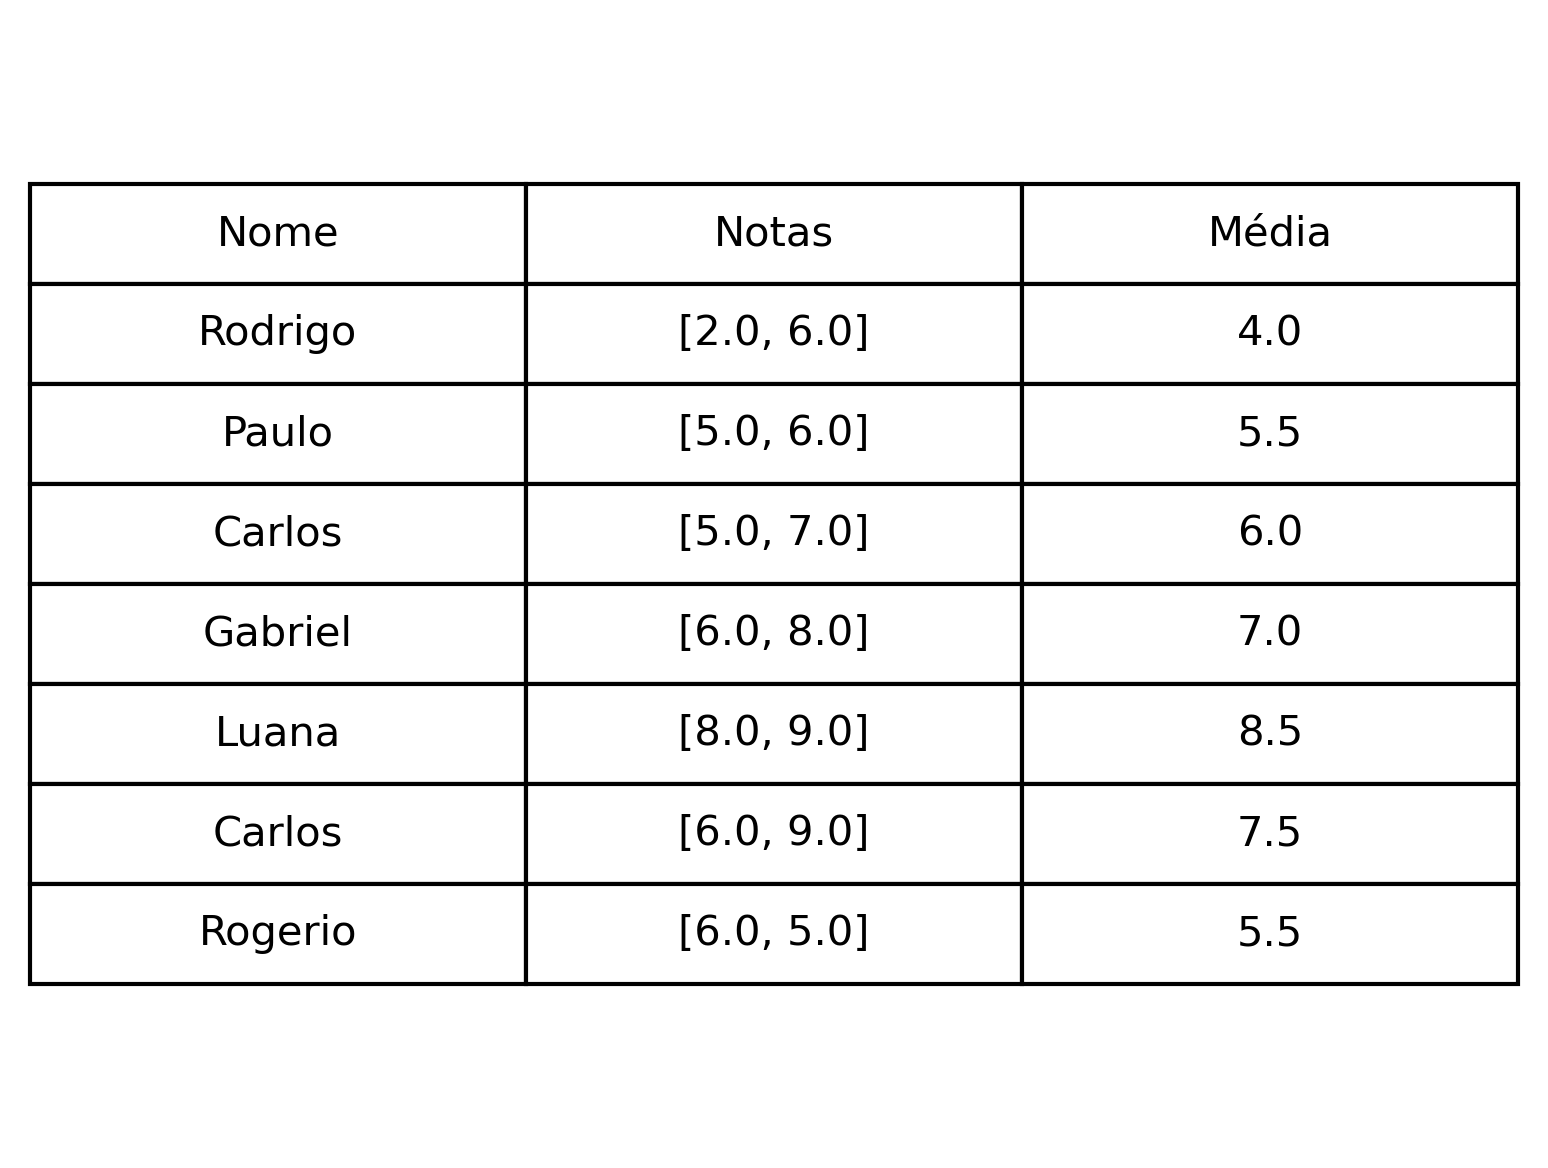
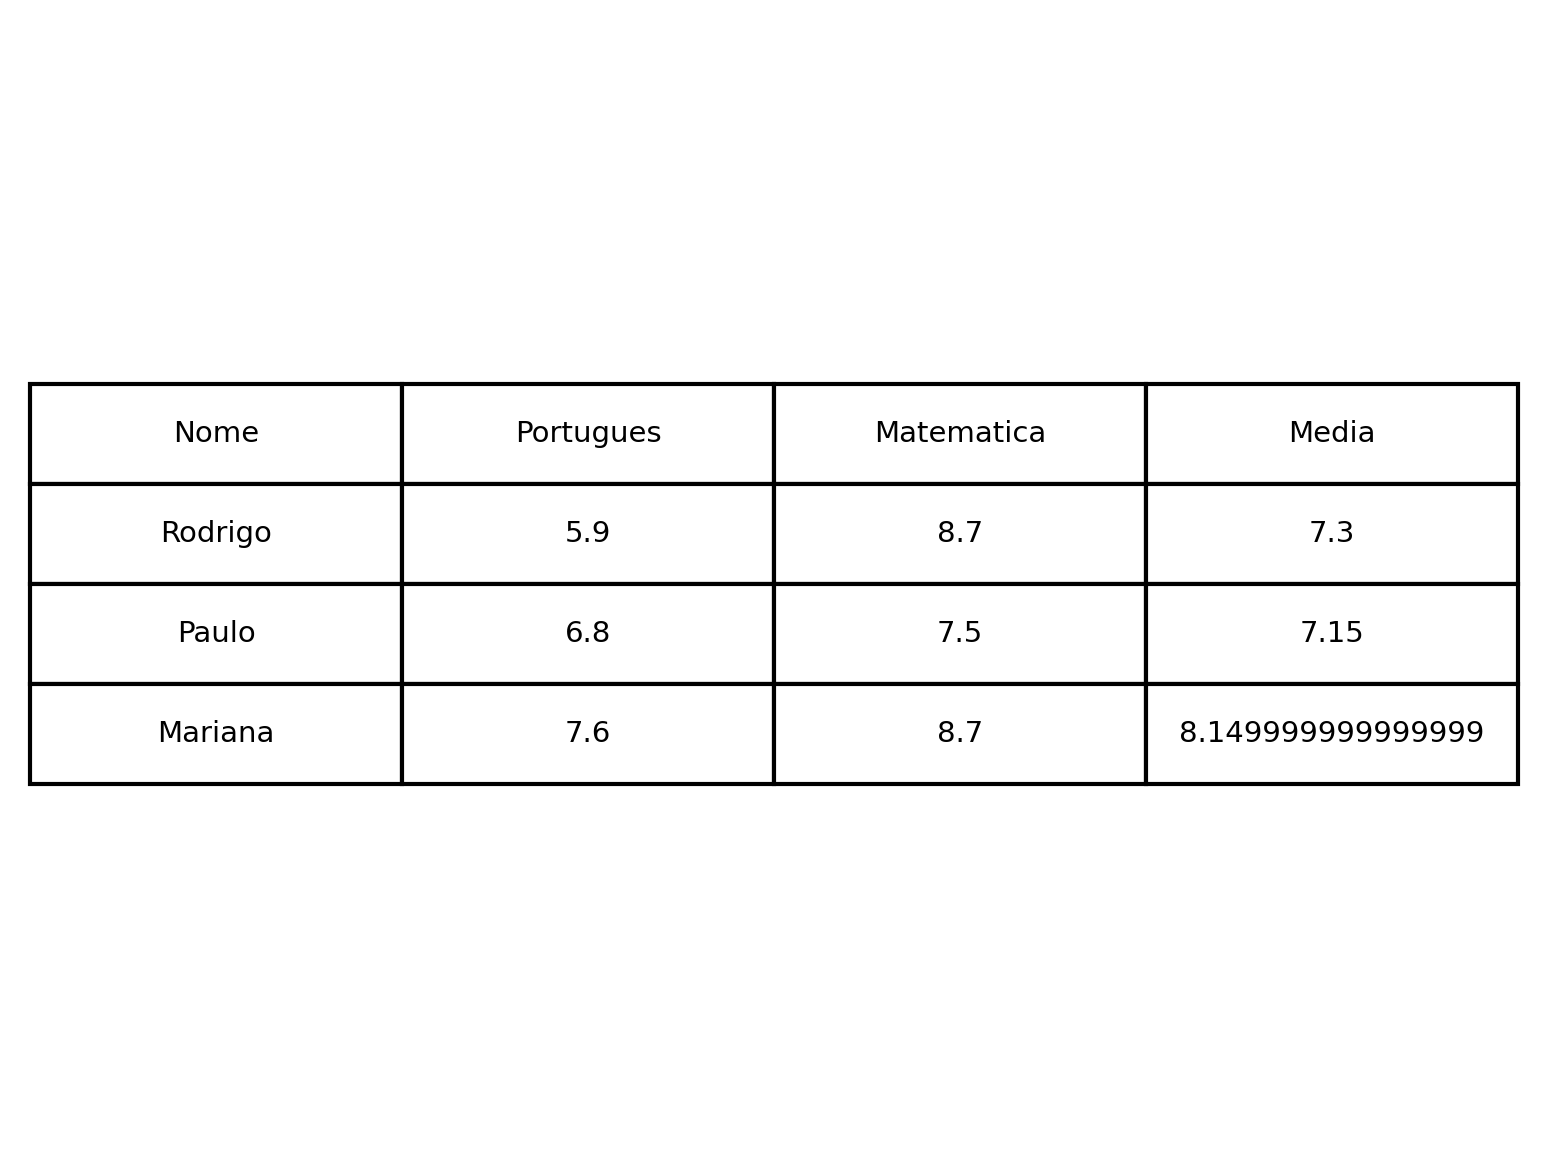
alterações drásticas
Resolvi mudar o como aparece as notas tanto no terminal como nas imagens e arquivos

diff --git a/main.py b/main.py
@@ -45,7 +45,7 @@ def removeVirgura(num):
     return float(numero)# Retorna o numero em float com ponto
 
 
-def validadorDeNumeroFloat(msg, n=None):
+def validadorDeNumeroFloat(msg, f=None):
     """
     Valida a entrada de um numero se ele é float ou não
     msg: uma mensagem personalizada
@@ -54,12 +54,13 @@ def validadorDeNumeroFloat(msg, n=None):
     """
     while True:# Loop infinito
         try:# Tratamento de erro.
-            numero = str(input(msg.format(n)))# Recebe um entrada qualquer do usuario.
+            numero = str(input(msg.format(f)))# Recebe um entrada qualquer do usuario.
             numero = removeVirgura(numero)# Remove a vilgula e volta como float.
             if isinstance(numero, float):# Analiza se o tipo é float.
                 return numero# Retorna o a entrada do usuario.
         except (ValueError, IndexError):# Erro a ser tratato.
             print('\033[31mERRO!! Valor invalido\033[m')
+
 
 def criaArquivo():
     import pandas as pd
@@ -67,15 +68,9 @@ def criaArquivo():
 
     df = pd.read_csv('alunos.csv')
 
-    conexao = sqlite3.connect('alunos.db')
-
-    df.to_sql('alunos', conexao, if_exists='replace', index=False)
-
-    conexao.close()   
-    
     #criando um arquvio para ser lido no excel
     df.to_excel('arquivos\\alunos.xlsx', index=False)
-    pass
+
 
 def validadorDeNumeroInt(msg, n=None):
     """    
@@ -107,7 +102,7 @@ def validadorDeNome(msg):
             print('\033[31mERRO!! Valor invalido\033[m')
 
 
-def manipuladorDeArquivos(nome, notas):
+def manipuladorDeArquivos(boletim):
 
     """
     Cria e adiciona dados a um arquivo csv
@@ -122,13 +117,27 @@ def manipuladorDeArquivos(nome, notas):
     if path.exists('alunos.csv'):# Validando se um arquivo existe
         with open('alunos.csv', 'a+', newline='') as arquivo:
             escritor_csv = csv.writer(arquivo)
-            escritor_csv.writerow([nome, notas, media(notas)])
+            for k1, v1 in boletim.items():
+                nome = k1
+                for k2, v2 in v1.items():
+                    if k2 == 'Portugues':
+                        nota_portugues = v2
+                    else:
+                        nota_matematica = v2
+            escritor_csv.writerow([nome, nota_portugues, nota_matematica, media(n1=nota_matematica, n2=nota_portugues)])
 
     else:
         with open('alunos.csv', 'w', newline='') as arquivo:
             escritor_csv = csv.writer(arquivo)
-            escritor_csv.writerow(['Nome', 'Notas', 'Media'])
-            escritor_csv.writerow([nome, notas, media(notas)])
+            escritor_csv.writerow(['Nome', 'Portugues', 'Matematica', 'Media'])
+            for k1, v1 in boletim.items():
+                nome = k1
+                for k2, v2 in v1.items():
+                    if k2 == 'Portugues':
+                        nota_portugues = v2
+                    else:
+                        nota_matematica = v2
+            escritor_csv.writerow([nome, nota_portugues, nota_matematica, media(n1=nota_matematica, n2=nota_portugues)])
 
 
 def cadastroAluno():
@@ -141,20 +150,25 @@ def cadastroAluno():
     while True:# Loop infinito
         LimparTela()
         cabecalho('CADASTRO DE ALUNOS')
-        notas = []# Lista de notas
+
+        boletim = {}
+
         nome = ""# Nome do aluno
+        portugues = 0
+        matematica = 0
         
         nome = validadorDeNome('Digite o nome do aluno: ').capitalize().strip()# Entrada do nome do aluno
-        provas = validadorDeNumeroInt('Quantas provas {} fez: ', nome)# Entrada para quantidade de notas
+        portugues = validadorDeNumeroFloat('Quanto foi a nota de portugues do {}: ', f=nome)
+        matematica = validadorDeNumeroFloat('Quanto foi a nota de matematica do {}: ', f=nome)
 
-        for num in range(0, provas):# Um loop finito
-            nota = validadorDeNumeroFloat('Digite a {}º nota: ', num + 1)# Entrada de notas do aluno
-            notas.append(nota)# Adiciona a ultima nota digitada do aluno em uma lista
-            
+        boletim[nome] = {}
+        boletim[nome]['Portugues'] = portugues
+        boletim[nome]['Matematica'] = matematica
+
         # Adiciona o nome do aluno no dicionario com key e sua lista de notas é convertida para tupla
         # e adicionada com valor
 
-        manipuladorDeArquivos(nome=nome, notas=notas)
+        manipuladorDeArquivos(boletim=boletim)
 
         while True:# Loop infinito
             try:
@@ -239,20 +253,18 @@ def exibirAlunos():
         print('\033[31mERRO!! Valor invalido\033[m')
 
 
-def media(notas):
+def media(n1, n2):
     """
     Calcula a média do aluno
     notas: É a tupla de notas do aluno
     return: retorna a média calculada
     """
-    soma = sum(notas)# soma de todas as notas
-    m = soma / len(notas)# Calcula a média
-    return m# retorno da média
+    soma = n1 + n2 # soma de todas as notas
+    m = soma / 2 # Calcula a média
+    return m # retorno da média
  
 
 #Programa principal
-alunos = {'Rodrigo': (0, 3.5, 2, 1), 'Natan': (0, 8, 9, 10)}# Dicionario dos alunos
-
 
 while True:
     

diff --git a/teste01.py b/teste01.py
@@ -1,0 +1,25 @@
+boletim = {}
+
+nome = str(input('digite um nome: '))
+portugues = int(input('digite uma nota de portugues: '))
+matematica  = int(input('digite uma nota de matematica: '))
+
+boletim[nome] = {}
+boletim[nome]['Portugues'] = portugues
+boletim[nome]['Matematica'] = matematica
+
+print(boletim)
+n = 0
+
+for k1, v1 in boletim.items():
+    nome = k1
+    for k2, v2 in v1.items():
+        if k2 == 'Portugues':
+            p = k2
+            nota_p = v2
+        else:
+            m = k2
+            nota_m = v2
+
+print(nome, p, nota_p, m, nota_m)
+            

diff --git a/teste.py b/teste.py
@@ -1,6 +1,9 @@
 from tabulate import tabulate
 
 # Dados do boletim escolar
+
+estudantes = {'Rodrigo': {'Portugues': 4.5, 'Matematica': 10}}
+
 alunos = [
     {
         'Aluno': 'Alice',
